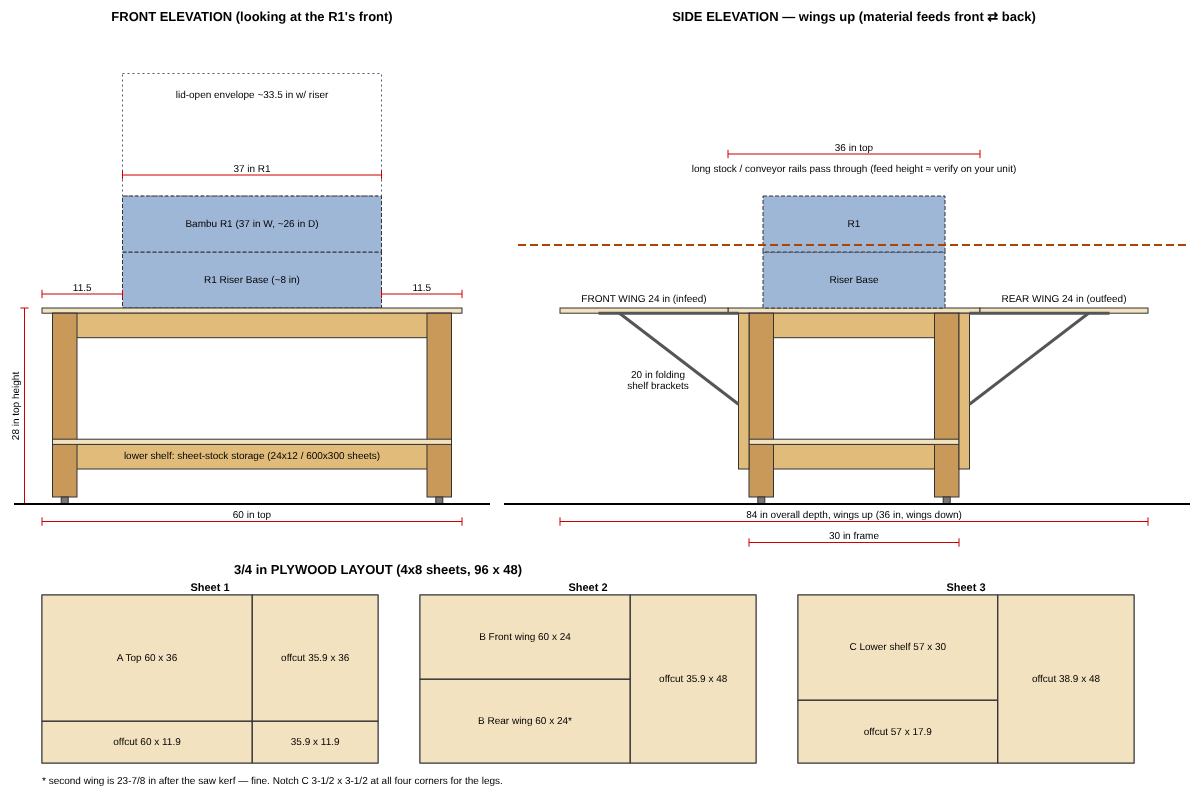
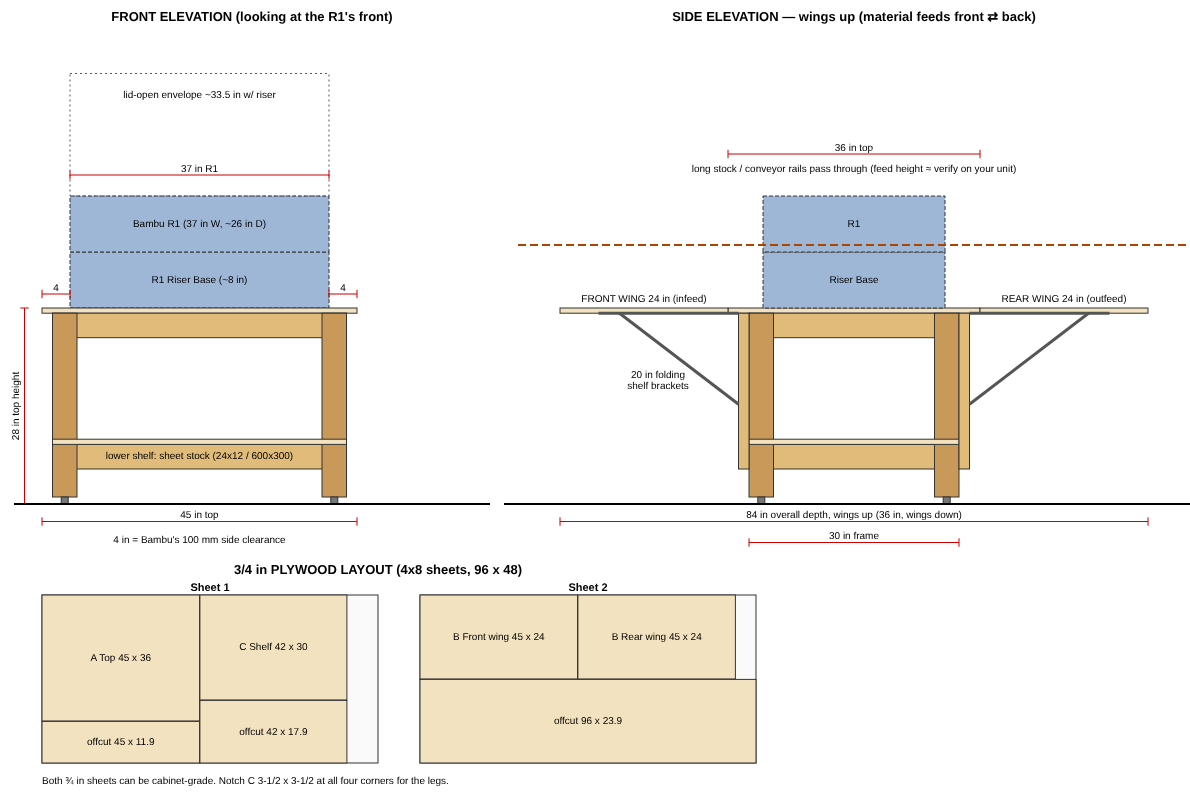
Narrow R1 workbench to 45 in (minimum side clearance)
Claude-Session: https://claude.ai/code/session_01Tymp3a2esDHkzEqPvpyNUv

diff --git a/r1-workbench/drawing.py b/r1-workbench/drawing.py
@@ -26,25 +26,26 @@ ox, oy = 6, 72
 text(ox+30, 3, "FRONT ELEVATION (looking at the R1's front)", 13, weight="bold")
 X = lambda v: ox + v
 # R1 + riser (approx)
-rect(X(11.5), H(oy, 28+8), 37, 8, R1C, dash="4 2"); text(X(30), H(oy, 28+4)+0.4, "R1 Riser Base (~8 in)", 10)
-rect(X(11.5), H(oy, 28+16), 37, 8, R1C, dash="4 2"); text(X(30), H(oy, 28+12)+0.4, "Bambu R1 (37 in W, ~26 in D)", 10)
-rect(X(11.5), H(oy, 28+33.5), 37, 17.5, "none", "#557", dash="2 3"); text(X(30), H(oy, 28+30), "lid-open envelope ~33.5 in w/ riser", 10)
+rect(X(4), H(oy, 28+8), 37, 8, R1C, dash="4 2"); text(X(22.5), H(oy, 28+4)+0.4, "R1 Riser Base (~8 in)", 10)
+rect(X(4), H(oy, 28+16), 37, 8, R1C, dash="4 2"); text(X(22.5), H(oy, 28+12)+0.4, "Bambu R1 (37 in W, ~26 in D)", 10)
+rect(X(4), H(oy, 28+33.5), 37, 17.5, "none", "#557", dash="2 3"); text(X(22.5), H(oy, 28+30), "lid-open envelope ~33.5 in w/ riser", 10)
 # top
-rect(X(0), H(oy, 28), 60, 0.75, PLY)
+rect(X(0), H(oy, 28), 45, 0.75, PLY)
 # aprons
-rect(X(1.5), H(oy, 27.25), 57, 3.5, LUM); rect(X(1.5), H(oy, 8.5), 57, 3.5, LUM)
+rect(X(1.5), H(oy, 27.25), 42, 3.5, LUM); rect(X(1.5), H(oy, 8.5), 42, 3.5, LUM)
 # legs (visible behind aprons -> draw posts)
-for lx in (1.5, 55):
+for lx in (1.5, 40):
     rect(X(lx), H(oy, 27.25), 3.5, 26.25, POST)
     rect(X(lx+1.25), H(oy, 1), 1, 1, "#777")
-rect(X(1.5), H(oy, 9.25), 57, 0.75, PLY)  # lower shelf
-text(X(30), H(oy, 6.5), "lower shelf: sheet-stock storage (24x12 / 600x300 sheets)", 10)
-dim(X(0), oy+2.5, X(60), "60 in top")
-dim(X(11.5), H(oy, 47), X(48.5), "37 in R1")
-dim(X(0), H(oy, 30), X(11.5), "11.5")
-dim(X(48.5), H(oy, 30), X(60), "11.5")
+rect(X(1.5), H(oy, 9.25), 42, 0.75, PLY)  # lower shelf
+text(X(22.5), H(oy, 6.5), "lower shelf: sheet stock (24x12 / 600x300)", 10)
+dim(X(0), oy+2.5, X(45), "45 in top")
+dim(X(4), H(oy, 47), X(41), "37 in R1")
+dim(X(0), H(oy, 30), X(4), "4")
+dim(X(41), H(oy, 30), X(45), "4")
 vdim(X(-2.5), oy, H(oy, 28), "28 in top height")
 line(X(-4), oy, X(64), oy, "#000", sw=2)
+text(X(22.5), oy+5.5, "4 in = Bambu's 100 mm side clearance", 10)
 
 # ---------- SIDE ELEVATION (depth, wings up) ----------
 ox2, oy2 = 80, 72
@@ -85,10 +86,9 @@ def sheet(x0, y0, title, parts):
     for (px, py, pw, ph, lab) in parts:
         rect(x0+px/2, y0+py/2, pw/2, ph/2, PLY)
         text(x0+(px+pw/2)/2, y0+(py+ph/2)/2+0.4, lab, 10)
-sheet(6, oy3+3, "Sheet 1", [(0, 0, 60, 36, "A  Top 60 x 36"), (60.125, 0, 35.875, 36, "offcut 35.9 x 36"), (0, 36.125, 60, 11.875, "offcut 60 x 11.9"), (60.125, 36.125, 35.875, 11.875, "35.9 x 11.9")])
-sheet(60, oy3+3, "Sheet 2", [(0, 0, 60, 24, "B  Front wing 60 x 24"), (0, 24.125, 60, 23.875, "B  Rear wing 60 x 24*"), (60.125, 0, 35.875, 48, "offcut 35.9 x 48")])
-sheet(114, oy3+3, "Sheet 3", [(0, 0, 57, 30, "C  Lower shelf 57 x 30"), (57.125, 0, 38.875, 48, "offcut 38.9 x 48"), (0, 30.125, 57, 17.875, "offcut 57 x 17.9")])
-text(6, oy3+30, "* second wing is 23-7/8 in after the saw kerf — fine. Notch C 3-1/2 x 3-1/2 at all four corners for the legs.", 10, anchor="start")
+sheet(6, oy3+3, "Sheet 1", [(0, 0, 45, 36, "A  Top 45 x 36"), (45.125, 0, 42, 30, "C  Shelf 42 x 30"), (0, 36.125, 45, 11.875, "offcut 45 x 11.9"), (45.125, 30.125, 42, 17.875, "offcut 42 x 17.9")])
+sheet(60, oy3+3, "Sheet 2", [(0, 0, 45, 24, "B  Front wing 45 x 24"), (45.125, 0, 45, 24, "B  Rear wing 45 x 24"), (0, 24.125, 96, 23.875, "offcut 96 x 23.9")])
+text(6, oy3+30, "Both ¾ in sheets can be cabinet-grade. Notch C 3-1/2 x 3-1/2 at all four corners for the legs.", 10, anchor="start")
 
 W, Ht = 170*S, 116*S
 svg = f'<svg xmlns="http://www.w3.org/2000/svg" width="{W}" height="{Ht}" viewBox="0 0 {W} {Ht}"><rect width="100%" height="100%" fill="white"/>' + "".join(out) + "</svg>"
